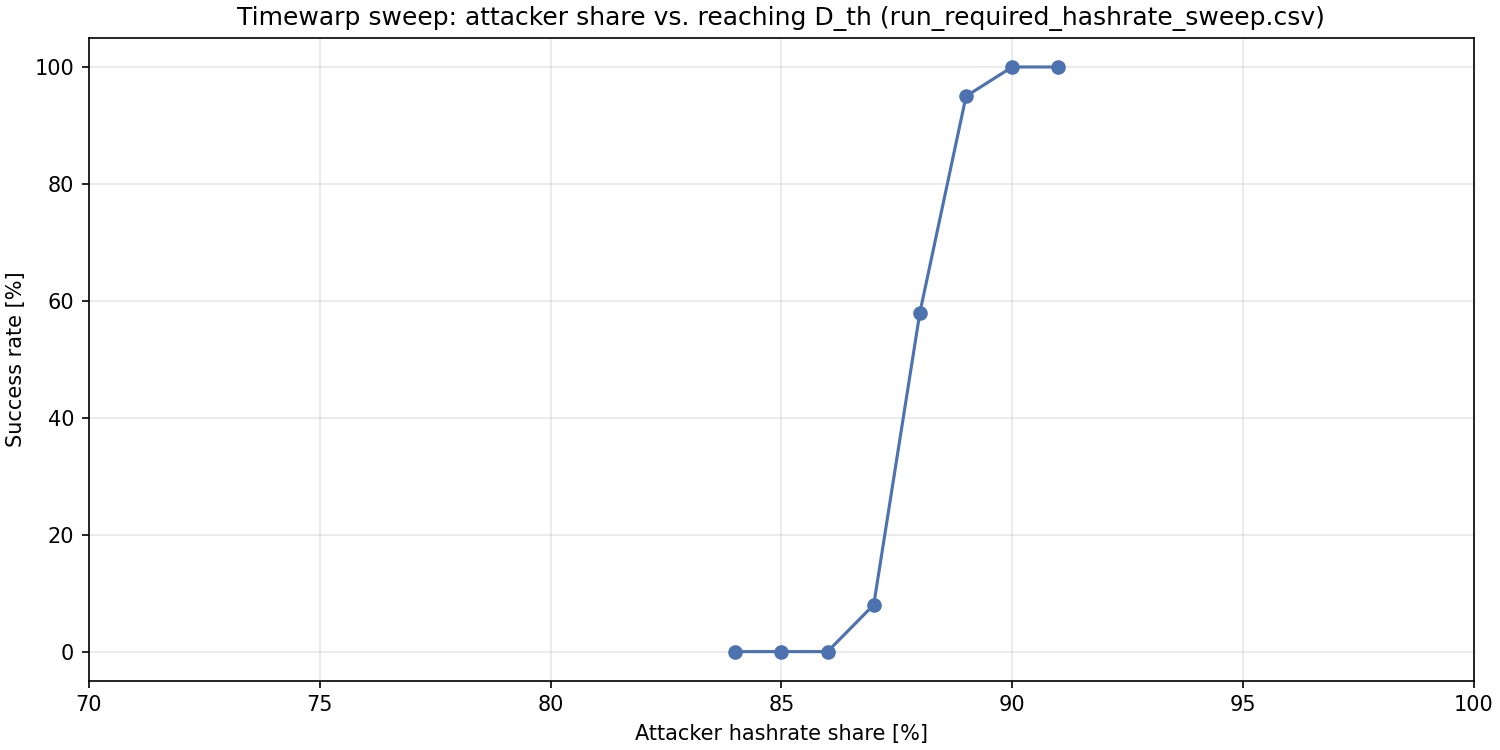
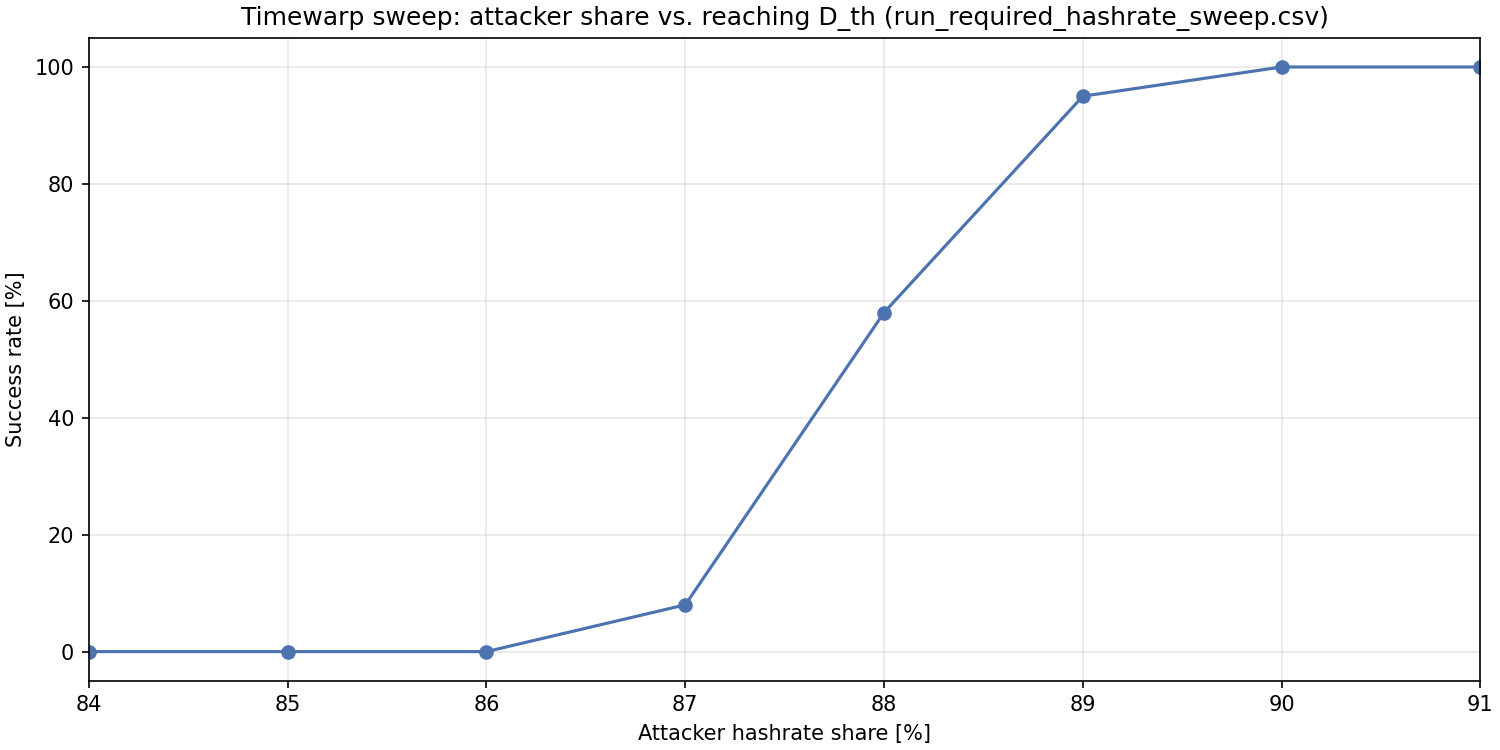
udpate plot

diff --git a/experiments/determine_required_hashrate/scripts/plot_required_hashrate_sweep.py b/experiments/determine_required_hashrate/scripts/plot_required_hashrate_sweep.py
@@ -16,8 +16,8 @@ BASE_DIR = SCRIPT_PATH.parents[1]
 DEFAULT_CSV = BASE_DIR / "results" / "required_hashrate_sweep.csv"
 DEFAULT_PNG = BASE_DIR / "results" / "plots" / "required_hashrate_sweep.png"
 # README のスイープ範囲（70〜100%）に合わせる
-X_AXIS_PCT_MIN = 70
-X_AXIS_PCT_MAX = 100
+X_AXIS_PCT_MIN = 84
+X_AXIS_PCT_MAX = 91
 
 
 def build_parser() -> argparse.ArgumentParser:
